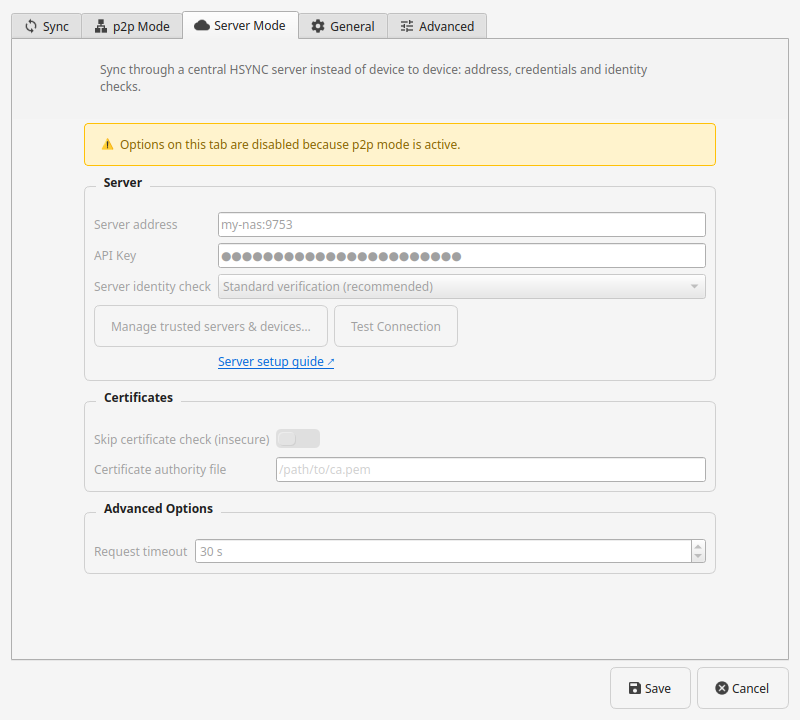
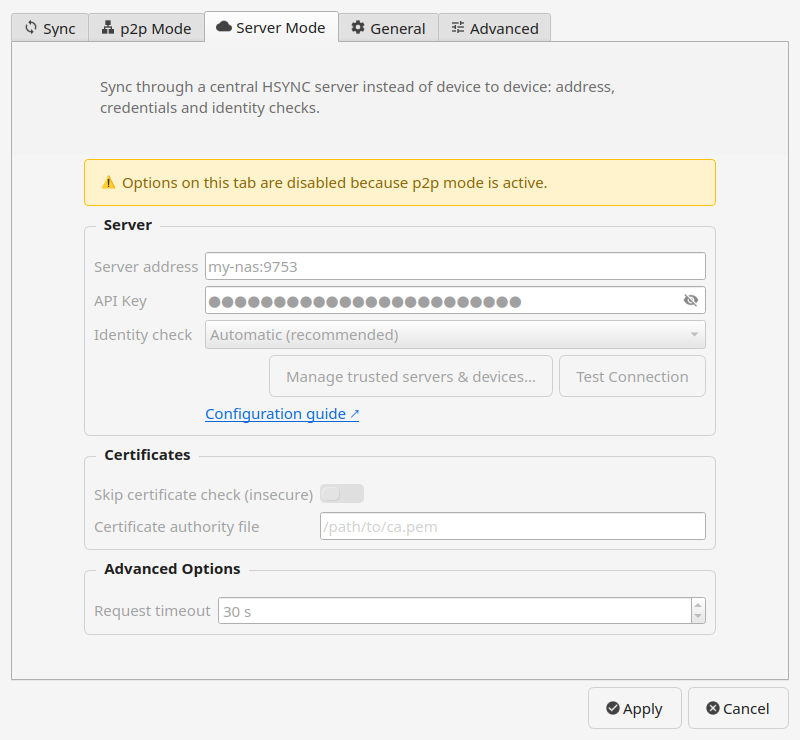
fix(settings): drop the endpoint type from the identity-check labels
The server, discovery-server and primary-device trust labels now read just "Identity check" in every locale: the tab and its group box already give the context. This also corrects the drifted p2p_trust label ("New primary device" in nine locales). The locale terminology guard, the user guide row and the two settings screenshots move with it.

diff --git a/hsync_desktop/locales/ru.py b/hsync_desktop/locales/ru.py
@@ -142,7 +142,7 @@ translations: dict[str, str] = {
     "settings.insecure": "Пропускать проверку сертификата (небезопасно)",
     "settings.ca_cert": "Файл центра сертификации",
     "trust_option.auto": "Автоматически (рекомендуется)",
-    "settings.server_trust": "Проверка подлинности сервера",
+    "settings.server_trust": "Проверка подлинности",
     "settings.server_trust_chain": "Стандартная проверка (рекомендуется)",
     "settings.server_trust_ask": "Спрашивать при первом использовании",
     "settings.server_trust_accept_new": "Принимать автоматически",
@@ -213,7 +213,7 @@ translations: dict[str, str] = {
     "settings.p2p_mode": "Включить режим p2p",
     "settings.p2p_group": "Имя группы p2p",
     "settings.p2p_rendezvous": "Серверы обнаружения (необязательно)",
-    "settings.p2p_rendezvous_trust": "Проверка подлинности сервера обнаружения",
+    "settings.p2p_rendezvous_trust": "Проверка подлинности",
     "settings.p2p_rendezvous_trust_ask": "Спрашивать при первом использовании",
     "settings.p2p_rendezvous_trust_accept_new": "Принимать автоматически",
     "settings.p2p_rendezvous_trust_strict": "Требовать сохранённую подлинность",
@@ -281,7 +281,7 @@ translations: dict[str, str] = {
     "settings.ntp_hosts": "Серверы времени",
     "settings.prefer_master": "Предпочитать основную роль",
     "settings.never_master": "Никогда не становиться основным",
-    "settings.p2p_trust": "Новое основное устройство",
+    "settings.p2p_trust": "Проверка подлинности",
     "settings.p2p_trust_ask": "Спрашивать при первом использовании",
     "settings.p2p_trust_accept_new": "Принимать автоматически",
     "settings.p2p_trust_strict": "Требовать сохранённую подлинность",

diff --git a/hsync_desktop/locales/fr.py b/hsync_desktop/locales/fr.py
@@ -132,7 +132,7 @@ translations: dict[str, str] = {
     "settings.insecure": "Ignorer la vérification du certificat (non sécurisé)",
     "settings.ca_cert": "Fichier d'autorité de certification",
     "trust_option.auto": "Automatique (recommandé)",
-    "settings.server_trust": "Vérification de l'identité du serveur",
+    "settings.server_trust": "Vérification d'identité",
     "settings.server_trust_chain": "Vérification standard (recommandée)",
     "settings.server_trust_ask": "Demander au premier usage",
     "settings.server_trust_accept_new": "Accepter automatiquement",
@@ -201,7 +201,7 @@ translations: dict[str, str] = {
     "settings.p2p_mode": "Activer le mode p2p",
     "settings.p2p_group": "Nom du groupe p2p",
     "settings.p2p_rendezvous": "Serveurs de découverte (facultatif)",
-    "settings.p2p_rendezvous_trust": "Vérification de l'identité du serveur de découverte",
+    "settings.p2p_rendezvous_trust": "Vérification d'identité",
     "settings.p2p_rendezvous_trust_ask": "Demander à la première connexion",
     "settings.p2p_rendezvous_trust_accept_new": "Accepter automatiquement",
     "settings.p2p_rendezvous_trust_strict": "Exiger l'identité enregistrée",
@@ -269,7 +269,7 @@ translations: dict[str, str] = {
     "settings.ntp_hosts": "Serveurs de temps",
     "settings.prefer_master": "Préférer le rôle primaire",
     "settings.never_master": "Ne jamais devenir principal",
-    "settings.p2p_trust": "Nouvel appareil principal",
+    "settings.p2p_trust": "Vérification d'identité",
     "settings.p2p_trust_ask": "Demander à la première connexion",
     "settings.p2p_trust_accept_new": "Accepter automatiquement",
     "settings.p2p_trust_strict": "Exiger l'identité enregistrée",

diff --git a/hsync_desktop/locales/es.py b/hsync_desktop/locales/es.py
@@ -132,7 +132,7 @@ translations: dict[str, str] = {
     "settings.insecure": "Omitir la comprobación del certificado (inseguro)",
     "settings.ca_cert": "Archivo de autoridad de certificación",
     "trust_option.auto": "Automática (recomendada)",
-    "settings.server_trust": "Verificación de identidad del servidor",
+    "settings.server_trust": "Verificación de identidad",
     "settings.server_trust_chain": "Verificación estándar (recomendada)",
     "settings.server_trust_ask": "Preguntar la primera vez",
     "settings.server_trust_accept_new": "Aceptar automáticamente",
@@ -201,7 +201,7 @@ translations: dict[str, str] = {
     "settings.p2p_mode": "Habilitar modo p2p",
     "settings.p2p_group": "Nombre del grupo p2p",
     "settings.p2p_rendezvous": "Servidores de descubrimiento (opcional)",
-    "settings.p2p_rendezvous_trust": "Verificación de identidad del servidor de descubrimiento",
+    "settings.p2p_rendezvous_trust": "Verificación de identidad",
     "settings.p2p_rendezvous_trust_ask": "Preguntar la primera vez",
     "settings.p2p_rendezvous_trust_accept_new": "Aceptar automáticamente",
     "settings.p2p_rendezvous_trust_strict": "Exigir la identidad guardada",
@@ -269,7 +269,7 @@ translations: dict[str, str] = {
     "settings.ntp_hosts": "Servidores horarios",
     "settings.prefer_master": "Preferir rol primario",
     "settings.never_master": "Nunca ser primario",
-    "settings.p2p_trust": "Dispositivo principal nuevo",
+    "settings.p2p_trust": "Verificación de identidad",
     "settings.p2p_trust_ask": "Preguntar la primera vez",
     "settings.p2p_trust_accept_new": "Aceptar automáticamente",
     "settings.p2p_trust_strict": "Exigir la identidad guardada",

diff --git a/hsync_desktop/locales/pt.py b/hsync_desktop/locales/pt.py
@@ -142,7 +142,7 @@ translations: dict[str, str] = {
     "settings.insecure": "Ignorar verificação do certificado (inseguro)",
     "settings.ca_cert": "Arquivo da autoridade certificadora",
     "trust_option.auto": "Automática (recomendada)",
-    "settings.server_trust": "Verificação da identidade do servidor",
+    "settings.server_trust": "Verificação de identidade",
     "settings.server_trust_chain": "Verificação padrão (recomendada)",
     "settings.server_trust_ask": "Perguntar no primeiro uso",
     "settings.server_trust_accept_new": "Aceitar automaticamente",
@@ -213,7 +213,7 @@ translations: dict[str, str] = {
     "settings.p2p_mode": "Ativar modo p2p",
     "settings.p2p_group": "Nome do grupo p2p",
     "settings.p2p_rendezvous": "Servidores de descoberta (opcional)",
-    "settings.p2p_rendezvous_trust": "Verificação da identidade do servidor de descoberta",
+    "settings.p2p_rendezvous_trust": "Verificação de identidade",
     "settings.p2p_rendezvous_trust_ask": "Perguntar no primeiro uso",
     "settings.p2p_rendezvous_trust_accept_new": "Aceitar automaticamente",
     "settings.p2p_rendezvous_trust_strict": "Exigir a identidade salva",
@@ -281,7 +281,7 @@ translations: dict[str, str] = {
     "settings.ntp_hosts": "Servidores de horário",
     "settings.prefer_master": "Preferir função primária",
     "settings.never_master": "Nunca se tornar primário",
-    "settings.p2p_trust": "Novo dispositivo principal",
+    "settings.p2p_trust": "Verificação de identidade",
     "settings.p2p_trust_ask": "Perguntar no primeiro uso",
     "settings.p2p_trust_accept_new": "Aceitar automaticamente",
     "settings.p2p_trust_strict": "Exigir a identidade salva",

diff --git a/hsync_desktop/locales/pl.py b/hsync_desktop/locales/pl.py
@@ -142,7 +142,7 @@ translations: dict[str, str] = {
     "settings.insecure": "Pomiń weryfikację certyfikatu (niebezpieczne)",
     "settings.ca_cert": "Plik urzędu certyfikacji",
     "trust_option.auto": "Automatyczna (zalecana)",
-    "settings.server_trust": "Weryfikacja tożsamości serwera",
+    "settings.server_trust": "Weryfikacja tożsamości",
     "settings.server_trust_chain": "Standardowa weryfikacja (zalecana)",
     "settings.server_trust_ask": "Pytaj przy pierwszym użyciu",
     "settings.server_trust_accept_new": "Akceptuj automatycznie",
@@ -213,7 +213,7 @@ translations: dict[str, str] = {
     "settings.p2p_mode": "Włącz tryb p2p",
     "settings.p2p_group": "Nazwa grupy p2p",
     "settings.p2p_rendezvous": "Serwery wykrywania (opcjonalnie)",
-    "settings.p2p_rendezvous_trust": "Weryfikacja tożsamości serwera wykrywania",
+    "settings.p2p_rendezvous_trust": "Weryfikacja tożsamości",
     "settings.p2p_rendezvous_trust_ask": "Pytaj przy pierwszym użyciu",
     "settings.p2p_rendezvous_trust_accept_new": "Akceptuj automatycznie",
     "settings.p2p_rendezvous_trust_strict": "Wymagaj zapisanej tożsamości",
@@ -281,7 +281,7 @@ translations: dict[str, str] = {
     "settings.ntp_hosts": "Serwery czasu",
     "settings.prefer_master": "Preferuj rolę główną",
     "settings.never_master": "Nigdy nie zostawaj głównym",
-    "settings.p2p_trust": "Nowe urządzenie główne",
+    "settings.p2p_trust": "Weryfikacja tożsamości",
     "settings.p2p_trust_ask": "Pytaj przy pierwszym użyciu",
     "settings.p2p_trust_accept_new": "Akceptuj automatycznie",
     "settings.p2p_trust_strict": "Wymagaj zapisanej tożsamości",

diff --git a/hsync_desktop/locales/ja.py b/hsync_desktop/locales/ja.py
@@ -142,7 +142,7 @@ translations: dict[str, str] = {
     "settings.insecure": "証明書チェックをスキップ（安全でない）",
     "settings.ca_cert": "認証局ファイル",
     "trust_option.auto": "自動（推奨）",
-    "settings.server_trust": "サーバー身元確認",
+    "settings.server_trust": "身元確認",
     "settings.server_trust_chain": "標準検証（推奨）",
     "settings.server_trust_ask": "初回使用時に確認",
     "settings.server_trust_accept_new": "自動的に承認",
@@ -213,7 +213,7 @@ translations: dict[str, str] = {
     "settings.p2p_mode": "p2p モードを有効にする",
     "settings.p2p_group": "p2p グループ名",
     "settings.p2p_rendezvous": "探索サーバー（任意）",
-    "settings.p2p_rendezvous_trust": "探索サーバーの識別情報の確認",
+    "settings.p2p_rendezvous_trust": "身元確認",
     "settings.p2p_rendezvous_trust_ask": "初回使用時に確認",
     "settings.p2p_rendezvous_trust_accept_new": "自動的に承認",
     "settings.p2p_rendezvous_trust_strict": "保存済みの身元を要求",
@@ -281,7 +281,7 @@ translations: dict[str, str] = {
     "settings.ntp_hosts": "タイムサーバー",
     "settings.prefer_master": "プライマリ役割を優先",
     "settings.never_master": "決してプライマリにしない",
-    "settings.p2p_trust": "新しいプライマリデバイス",
+    "settings.p2p_trust": "身元確認",
     "settings.p2p_trust_ask": "初回使用時に確認",
     "settings.p2p_trust_accept_new": "自動的に受け入れる",
     "settings.p2p_trust_strict": "保存済みの身元を要求",

diff --git a/hsync_desktop/locales/it.py b/hsync_desktop/locales/it.py
@@ -132,7 +132,7 @@ translations: dict[str, str] = {
     "settings.insecure": "Salta il controllo del certificato (non sicuro)",
     "settings.ca_cert": "File certificato CA",
     "trust_option.auto": "Automatica (consigliata)",
-    "settings.server_trust": "Verifica identità — server",
+    "settings.server_trust": "Verifica identità",
     "settings.server_trust_chain": "Verifica standard (consigliata)",
     "settings.server_trust_ask": "Chiedi al primo uso",
     "settings.server_trust_accept_new": "Accetta automaticamente",
@@ -201,7 +201,7 @@ translations: dict[str, str] = {
     "settings.p2p_mode": "Abilita modalità p2p",
     "settings.p2p_group": "Nome gruppo p2p",
     "settings.p2p_rendezvous": "Server di individuazione (opzionale)",
-    "settings.p2p_rendezvous_trust": "Verifica identità — server di individuazione",
+    "settings.p2p_rendezvous_trust": "Verifica identità",
     "settings.p2p_rendezvous_trust_ask": "Chiedi al primo uso",
     "settings.p2p_rendezvous_trust_accept_new": "Accetta automaticamente",
     "settings.p2p_rendezvous_trust_strict": "Richiedi l'identità salvata",
@@ -269,7 +269,7 @@ translations: dict[str, str] = {
     "settings.ntp_hosts": "Server di orario",
     "settings.prefer_master": "Preferisci ruolo primario",
     "settings.never_master": "Mai diventare primario",
-    "settings.p2p_trust": "Verifica identità — dispositivo primario",
+    "settings.p2p_trust": "Verifica identità",
     "settings.p2p_trust_ask": "Chiedi al primo uso",
     "settings.p2p_trust_accept_new": "Accetta automaticamente",
     "settings.p2p_trust_strict": "Richiedi l'identità salvata",

diff --git a/hsync_desktop/locales/nl.py b/hsync_desktop/locales/nl.py
@@ -142,7 +142,7 @@ translations: dict[str, str] = {
     "settings.insecure": "Certificaatcontrole overslaan (onveilig)",
     "settings.ca_cert": "Bestand van certificeringsinstantie",
     "trust_option.auto": "Automatisch (aanbevolen)",
-    "settings.server_trust": "Controle van serveridentiteit",
+    "settings.server_trust": "Identiteitscontrole",
     "settings.server_trust_chain": "Standaardverificatie (aanbevolen)",
     "settings.server_trust_ask": "Vragen bij eerste gebruik",
     "settings.server_trust_accept_new": "Automatisch accepteren",
@@ -213,7 +213,7 @@ translations: dict[str, str] = {
     "settings.p2p_mode": "p2p-modus inschakelen",
     "settings.p2p_group": "p2p-groepsnaam",
     "settings.p2p_rendezvous": "Detectieservers (optioneel)",
-    "settings.p2p_rendezvous_trust": "Identiteitscontrole van de detectieserver",
+    "settings.p2p_rendezvous_trust": "Identiteitscontrole",
     "settings.p2p_rendezvous_trust_ask": "Vragen bij eerste gebruik",
     "settings.p2p_rendezvous_trust_accept_new": "Automatisch accepteren",
     "settings.p2p_rendezvous_trust_strict": "Opgeslagen identiteit vereisen",
@@ -281,7 +281,7 @@ translations: dict[str, str] = {
     "settings.ntp_hosts": "Tijdservers",
     "settings.prefer_master": "Primaire rol verkiezen",
     "settings.never_master": "Nooit primair worden",
-    "settings.p2p_trust": "Nieuw primair apparaat",
+    "settings.p2p_trust": "Identiteitscontrole",
     "settings.p2p_trust_ask": "Vragen bij eerste gebruik",
     "settings.p2p_trust_accept_new": "Automatisch accepteren",
     "settings.p2p_trust_strict": "Opgeslagen identiteit vereisen",

diff --git a/hsync_desktop/locales/de.py b/hsync_desktop/locales/de.py
@@ -132,7 +132,7 @@ translations: dict[str, str] = {
     "settings.insecure": "Zertifikatsprüfung überspringen (unsicher)",
     "settings.ca_cert": "Zertifizierungsstellendatei",
     "trust_option.auto": "Automatisch (empfohlen)",
-    "settings.server_trust": "Server-Identitätsprüfung",
+    "settings.server_trust": "Identitätsprüfung",
     "settings.server_trust_chain": "Standardprüfung (empfohlen)",
     "settings.server_trust_ask": "Beim ersten Mal fragen",
     "settings.server_trust_accept_new": "Automatisch akzeptieren",
@@ -201,7 +201,7 @@ translations: dict[str, str] = {
     "settings.p2p_mode": "p2p-Modus aktivieren",
     "settings.p2p_group": "p2p-Gruppenname",
     "settings.p2p_rendezvous": "Erkennungsserver (optional)",
-    "settings.p2p_rendezvous_trust": "Identitätsprüfung des Erkennungsservers",
+    "settings.p2p_rendezvous_trust": "Identitätsprüfung",
     "settings.p2p_rendezvous_trust_ask": "Beim ersten Mal fragen",
     "settings.p2p_rendezvous_trust_accept_new": "Automatisch akzeptieren",
     "settings.p2p_rendezvous_trust_strict": "Gespeicherte Identität verlangen",
@@ -269,7 +269,7 @@ translations: dict[str, str] = {
     "settings.ntp_hosts": "Zeitserver",
     "settings.prefer_master": "Primärrolle bevorzugen",
     "settings.never_master": "Nie primär werden",
-    "settings.p2p_trust": "Neues Primärgerät",
+    "settings.p2p_trust": "Identitätsprüfung",
     "settings.p2p_trust_ask": "Beim ersten Mal fragen",
     "settings.p2p_trust_accept_new": "Automatisch akzeptieren",
     "settings.p2p_trust_strict": "Gespeicherte Identität verlangen",

diff --git a/hsync_desktop/locales/en.py b/hsync_desktop/locales/en.py
@@ -142,7 +142,7 @@ translations: dict[str, str] = {
     "settings.insecure": "Skip certificate check (insecure)",
     "settings.ca_cert": "Certificate authority file",
     "trust_option.auto": "Automatic (recommended)",
-    "settings.server_trust": "Identity check — server",
+    "settings.server_trust": "Identity check",
     "settings.server_trust_chain": "Standard verification (recommended)",
     "settings.server_trust_ask": "Ask on first use",
     "settings.server_trust_accept_new": "Accept automatically",
@@ -213,7 +213,7 @@ translations: dict[str, str] = {
     "settings.p2p_mode": "Enable p2p mode",
     "settings.p2p_group": "p2p Group Name",
     "settings.p2p_rendezvous": "Discovery servers (optional)",
-    "settings.p2p_rendezvous_trust": "Identity check — discovery server",
+    "settings.p2p_rendezvous_trust": "Identity check",
     "settings.p2p_rendezvous_trust_ask": "Ask on first use",
     "settings.p2p_rendezvous_trust_accept_new": "Accept automatically",
     "settings.p2p_rendezvous_trust_strict": "Require the saved identity",
@@ -281,7 +281,7 @@ translations: dict[str, str] = {
     "settings.ntp_hosts": "Time servers",
     "settings.prefer_master": "Prefer primary role",
     "settings.never_master": "Never become primary",
-    "settings.p2p_trust": "Identity check — primary device",
+    "settings.p2p_trust": "Identity check",
     "settings.p2p_trust_ask": "Ask on first use",
     "settings.p2p_trust_accept_new": "Accept automatically",
     "settings.p2p_trust_strict": "Require the saved identity",

diff --git a/hsync_desktop/locales/zh.py b/hsync_desktop/locales/zh.py
@@ -142,7 +142,7 @@ translations: dict[str, str] = {
     "settings.insecure": "跳过证书检查（不安全）",
     "settings.ca_cert": "证书颁发机构文件",
     "trust_option.auto": "自动（推荐）",
-    "settings.server_trust": "服务器身份验证",
+    "settings.server_trust": "身份验证",
     "settings.server_trust_chain": "标准验证（推荐）",
     "settings.server_trust_ask": "首次使用时询问",
     "settings.server_trust_accept_new": "自动接受",
@@ -213,7 +213,7 @@ translations: dict[str, str] = {
     "settings.p2p_mode": "启用 p2p 模式",
     "settings.p2p_group": "p2p 组名称",
     "settings.p2p_rendezvous": "发现服务器（可选）",
-    "settings.p2p_rendezvous_trust": "发现服务器身份验证",
+    "settings.p2p_rendezvous_trust": "身份验证",
     "settings.p2p_rendezvous_trust_ask": "首次使用时询问",
     "settings.p2p_rendezvous_trust_accept_new": "自动接受",
     "settings.p2p_rendezvous_trust_strict": "要求已保存的身份",
@@ -281,7 +281,7 @@ translations: dict[str, str] = {
     "settings.ntp_hosts": "时间服务器",
     "settings.prefer_master": "优先使用主设备角色",
     "settings.never_master": "永不成为主设备",
-    "settings.p2p_trust": "新的主设备",
+    "settings.p2p_trust": "身份验证",
     "settings.p2p_trust_ask": "首次使用时询问",
     "settings.p2p_trust_accept_new": "自动接受",
     "settings.p2p_trust_strict": "要求已保存的身份",

diff --git a/tests/test_locales.py b/tests/test_locales.py
@@ -44,6 +44,19 @@ class TestTranslationConsistency:
                 f"{module.__name__} has different keys than English"
             )
 
+    def test_identity_check_labels_are_plain_and_shared(self):
+        """The three trust labels read just "Identity check" in every locale.
+
+        Each field already sits in its own tab and group box (server, discovery
+        server, primary device), so the label must not repeat the endpoint type;
+        the three must stay identical so no locale drifts back to a typed wording
+        (the previous "New primary device" drift).
+        """
+        keys = ("settings.server_trust", "settings.p2p_rendezvous_trust", "settings.p2p_trust")
+        for module in ALL_MODULES:
+            values = {module.translations[key] for key in keys}
+            assert len(values) == 1, f"{module.__name__}: {sorted(values)}"
+
 
 class TestImportantTranslations:
     """Test that important translations exist in all languages."""
@@ -124,7 +137,6 @@ class TestTerminologyConsistency:
         "settings.test_rendezvous_failure",
         "settings.invalid_rendezvous_endpoint",
         "settings.p2p_rendezvous",
-        "settings.p2p_rendezvous_trust",
         "dialogs.rendezvous_trust_title",
         "dialogs.rendezvous_trust_body",
         "dialogs.rendezvous_unreachable",
